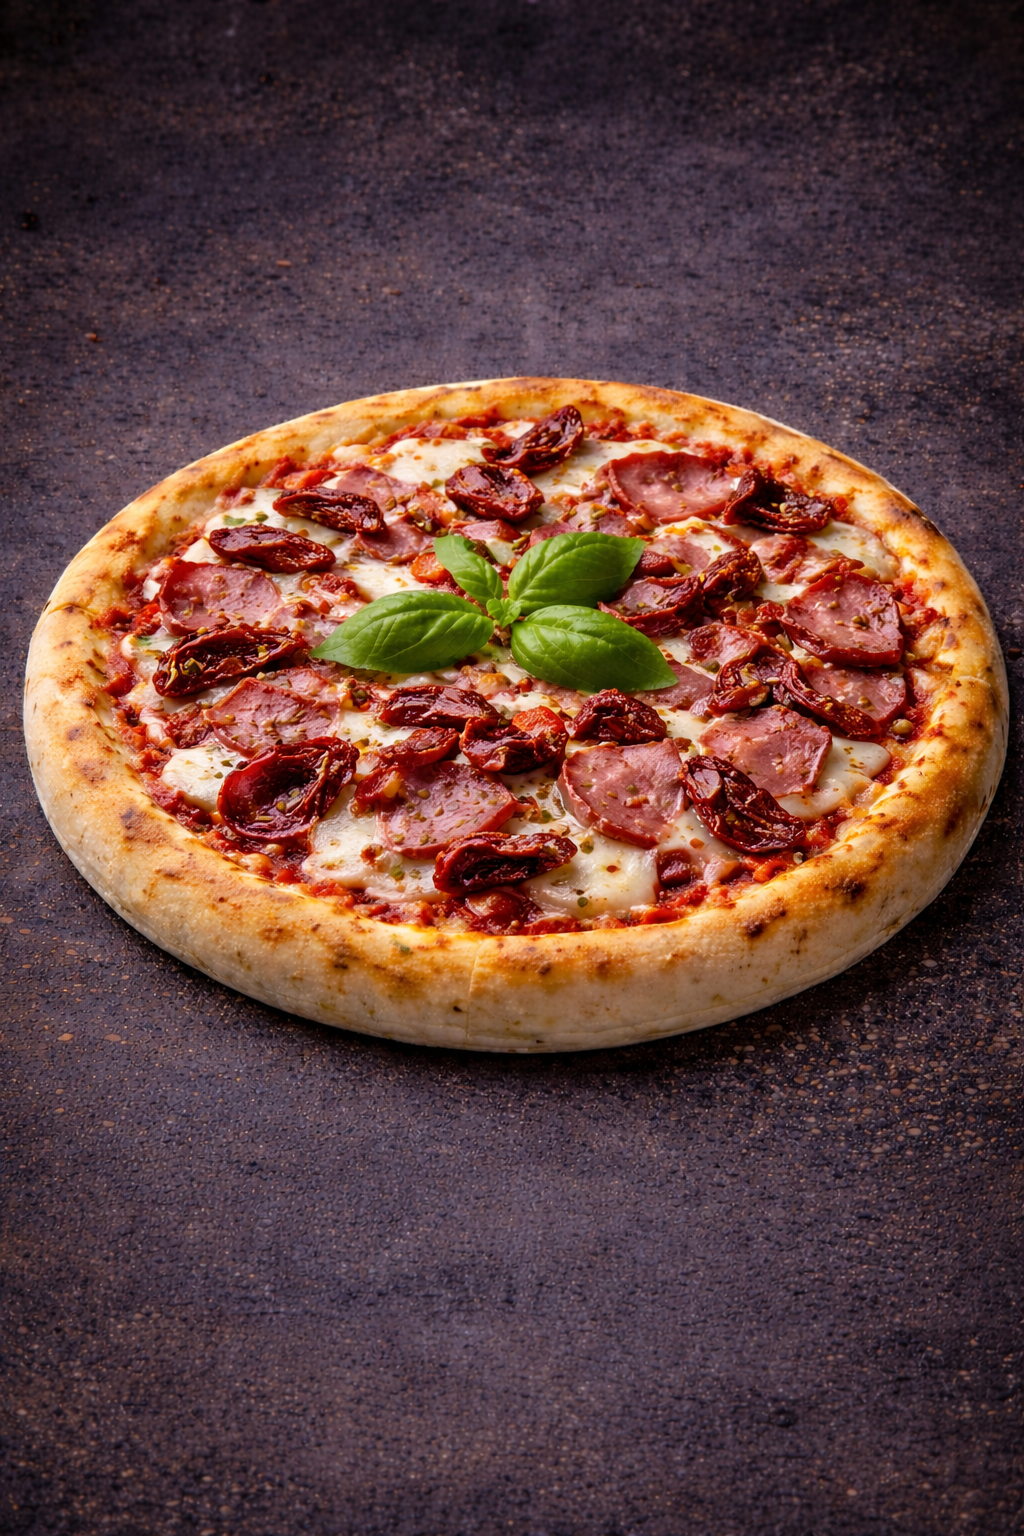
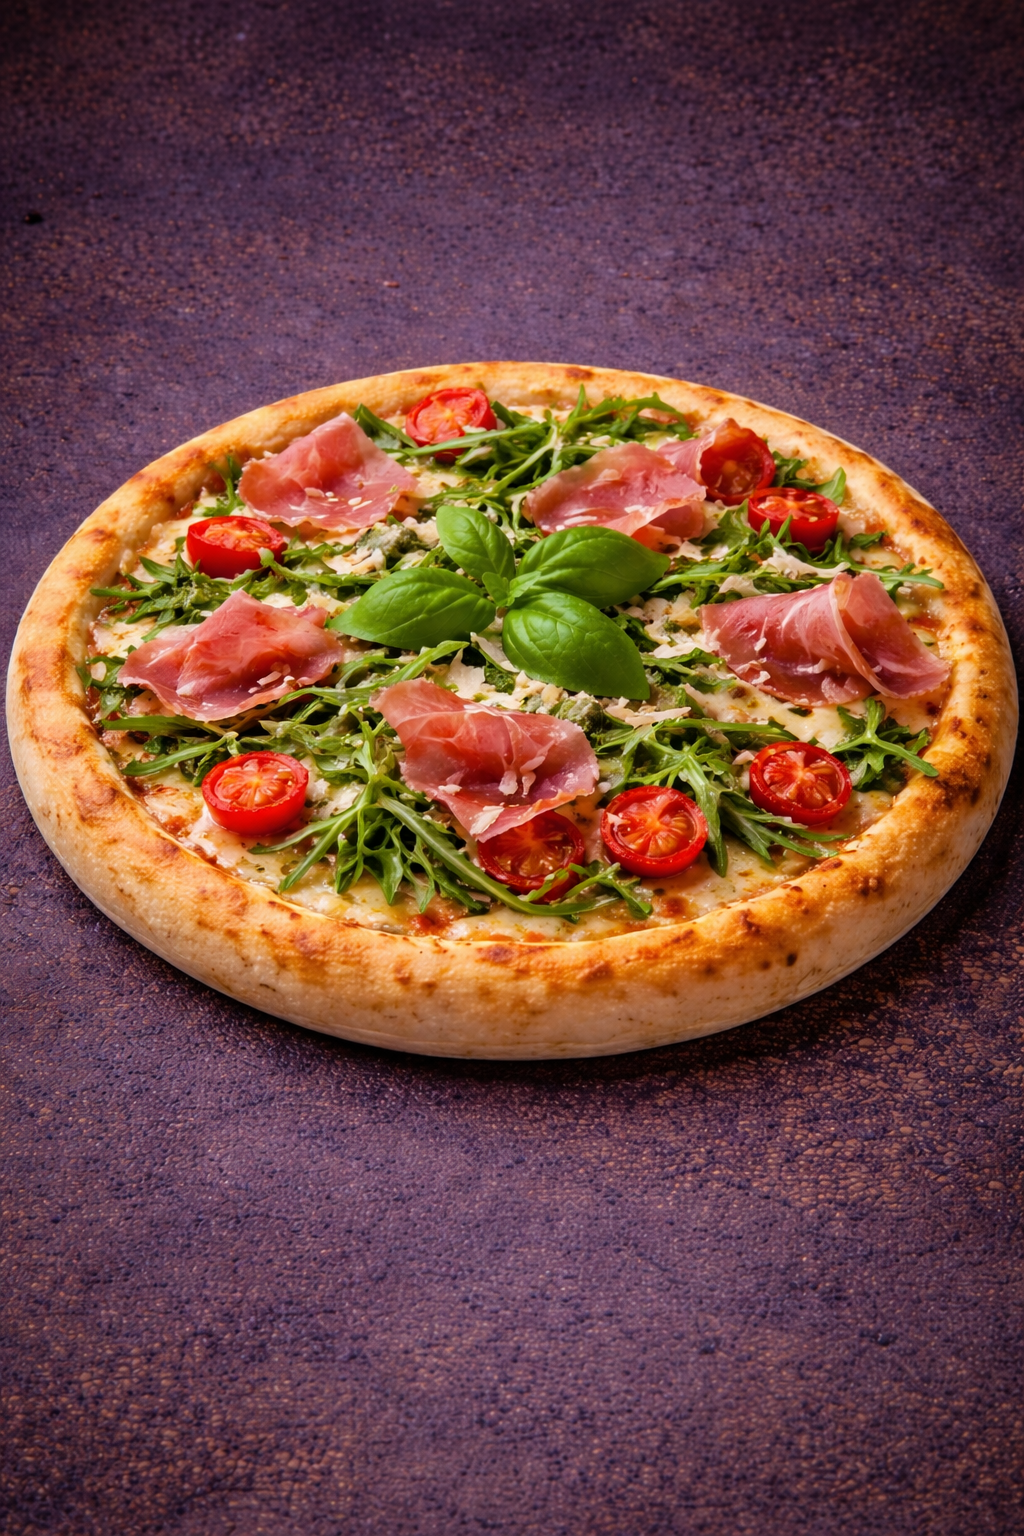
Add final pizza images: diavola tartufata, prosciutto crudo, quattro formaggi e ventricina, salami tartufata

diff --git a/client/src/pages/Home.tsx b/client/src/pages/Home.tsx
@@ -36,12 +36,13 @@ const IMAGE_URLS = {
   mortadella: '/poze ai urban slice/poza mortadela.png',
   carbonara: '/poze ai urban slice/poza carbonara.png',
   prosciuttoCrudo: '/poze ai urban slice/poza prosciutto crudo e rucola.png',
-  diavola_tartufata: '/poze ai urban slice/poza salami diavola.png',
-  salami_tartufata: '/poze ai urban slice/poza salami.png',
+  diavola_tartufata: '/poze ai urban slice/poza diavola tartufata.png',
+  salami_tartufata: '/poze ai urban slice/poza salami tartufata.png',
   quattroCarne: '/poze ai urban slice/poza quatro carne.png',
   elCiolanescu: '/poze ai urban slice/poza el ciolanescu.png',
   tartufoSalsiccia: '/poze ai urban slice/poza tartufo e salsiccia.png',
   pastramiPomodori: '/poze ai urban slice/poza pastrami con pomodori secchi.png',
+  quattroFormaggiVentricina: '/poze ai urban slice/poza quatro formaggi e ventricina.png',
 };
 
 const LOGO_URL = 'https://d2xsxph8kpxj0f.cloudfront.net/310519663414316478/mdHwtXncmAPABssMUNeNmG/logourbanslice_a919f1bf.png';
@@ -69,7 +70,7 @@ const MENU_DATA = {
     { name: 'MORTADELLA', image: IMAGE_URLS.mortadella, sizes: { '32cm': { price: 50, weight: '640 g' }, '40cm': { price: 70, weight: '840 g' } }, ingredients: 'Palina, sos de roșii, mozzarella, mortadella, pesto, busuioc' },
     { name: 'EL CIOLANESCU', image: IMAGE_URLS.elCiolanescu, sizes: { '32cm': { price: 50, weight: '660 g' }, '40cm': { price: 70, weight: '800 g' } }, ingredients: 'Palina, sos de roșii, mozzarella, ciolan afumat, ouă de prepeliță, ardei gras, usturoi, piper, ulei de măsline extravirgin' },
     { name: 'QUATTRO CARNE', image: IMAGE_URLS.quattroCarne, sizes: { '32cm': { price: 50, weight: '660 g' }, '40cm': { price: 70, weight: '660 g' } }, ingredients: 'Palina, sos de roșii, mozzarella, salam Napoli, prosciutto cotto, ventricina, cârnați, parmezan' },
-    { name: 'QUATTRO FORMAGGI E VENTRICINA', image: IMAGE_URLS.quattroFormaggi, sizes: { '32cm': { price: 50, weight: '640 g' }, '40cm': { price: 70, weight: '640 g' } }, ingredients: 'Palina, sos alb, cheddar, mozzarella, gorgonzola, parmezan, ventricina' },
+    { name: 'QUATTRO FORMAGGI E VENTRICINA', image: IMAGE_URLS.quattroFormaggiVentricina, sizes: { '32cm': { price: 50, weight: '640 g' }, '40cm': { price: 70, weight: '640 g' } }, ingredients: 'Palina, sos alb, cheddar, mozzarella, gorgonzola, parmezan, ventricina' },
     { name: 'TARTUFO E SALSICCIA', image: IMAGE_URLS.tartufoSalsiccia, sizes: { '32cm': { price: 50, weight: '660 g' }, '40cm': { price: 70, weight: '660 g' } }, ingredients: 'Palina, sos de roșii, mozzarella, pastă de trufe, cârnat proaspăt salsiccia' },
     { name: 'PASTRAMI CON POMODORI SECCHI', image: IMAGE_URLS.pastramiPomodori, sizes: { '32cm': { price: 45, weight: '660 g' }, '40cm': { price: 65, weight: '660 g' } }, ingredients: 'Palina, sos de roșii, mozzarella, pastramă, roșii uscate' },
     { name: 'PROSCIUTTO CRUDO E RUCOLA', image: IMAGE_URLS.prosciuttoCrudo, sizes: { '32cm': { price: 50, weight: '660 g' }, '40cm': { price: 70, weight: '660 g' } }, ingredients: 'Palina, mozzarella, roșii cherry, rucola, prosciutto crudo, parmezan' },